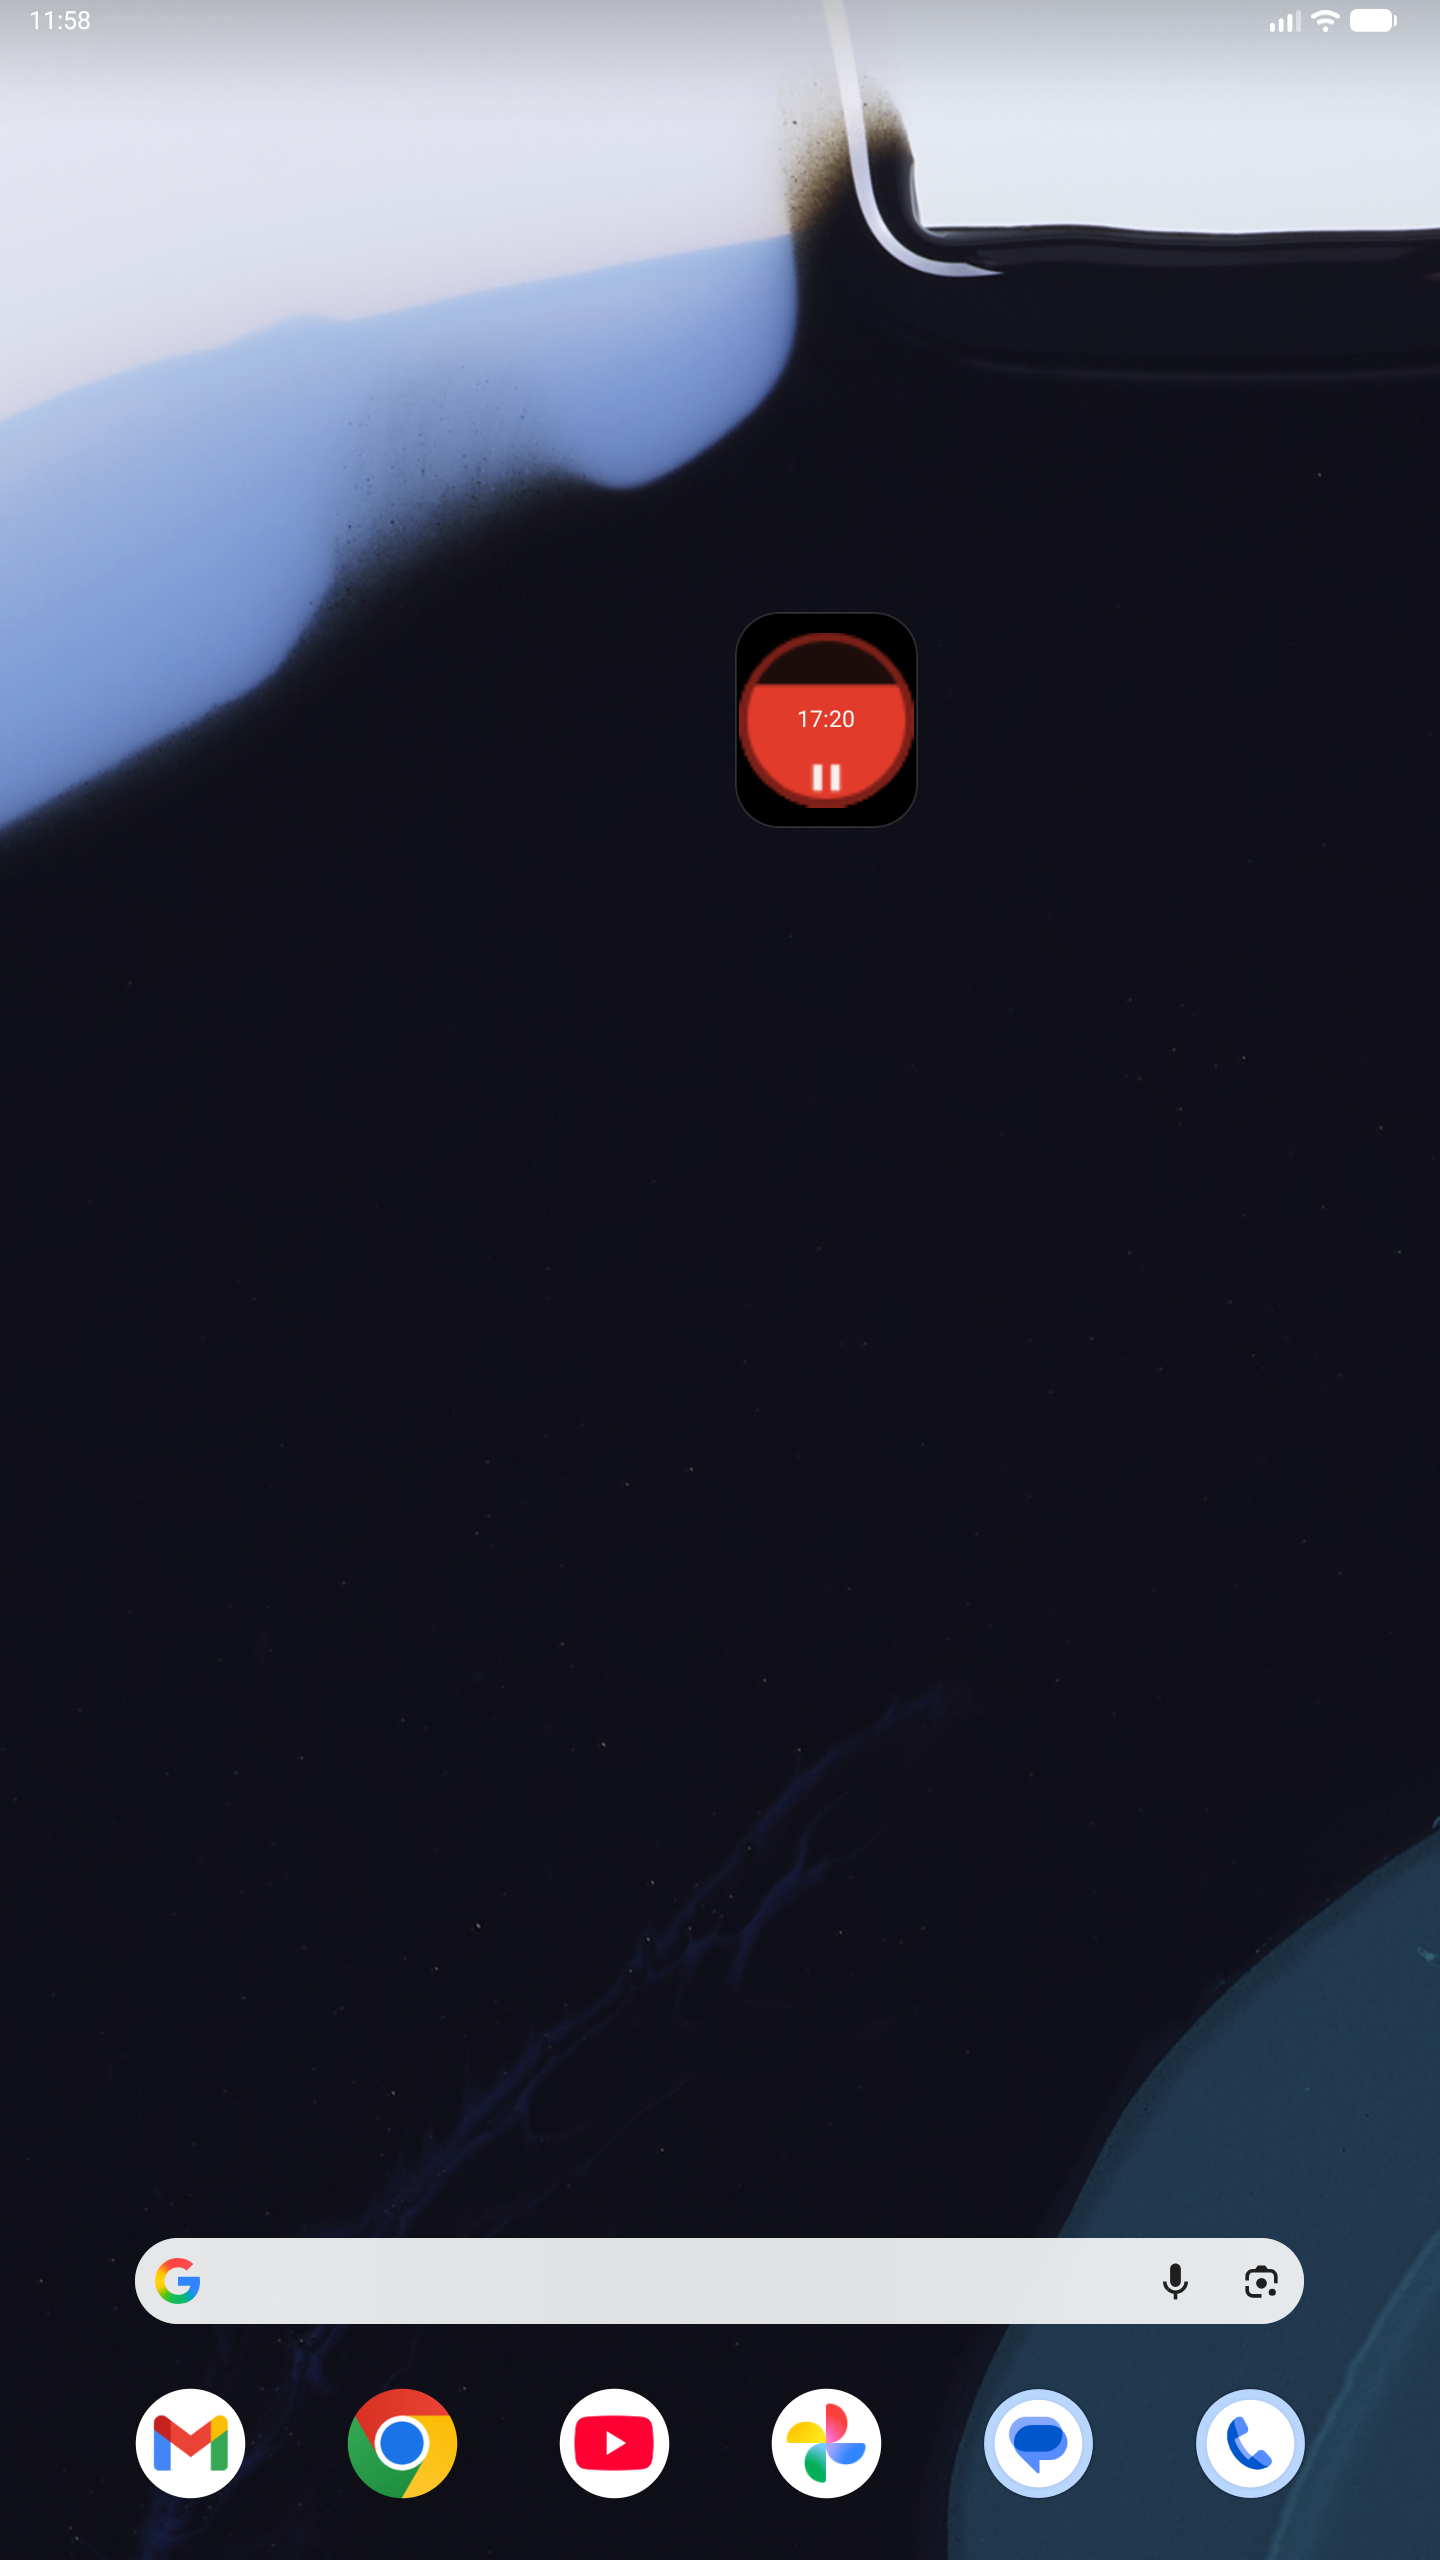
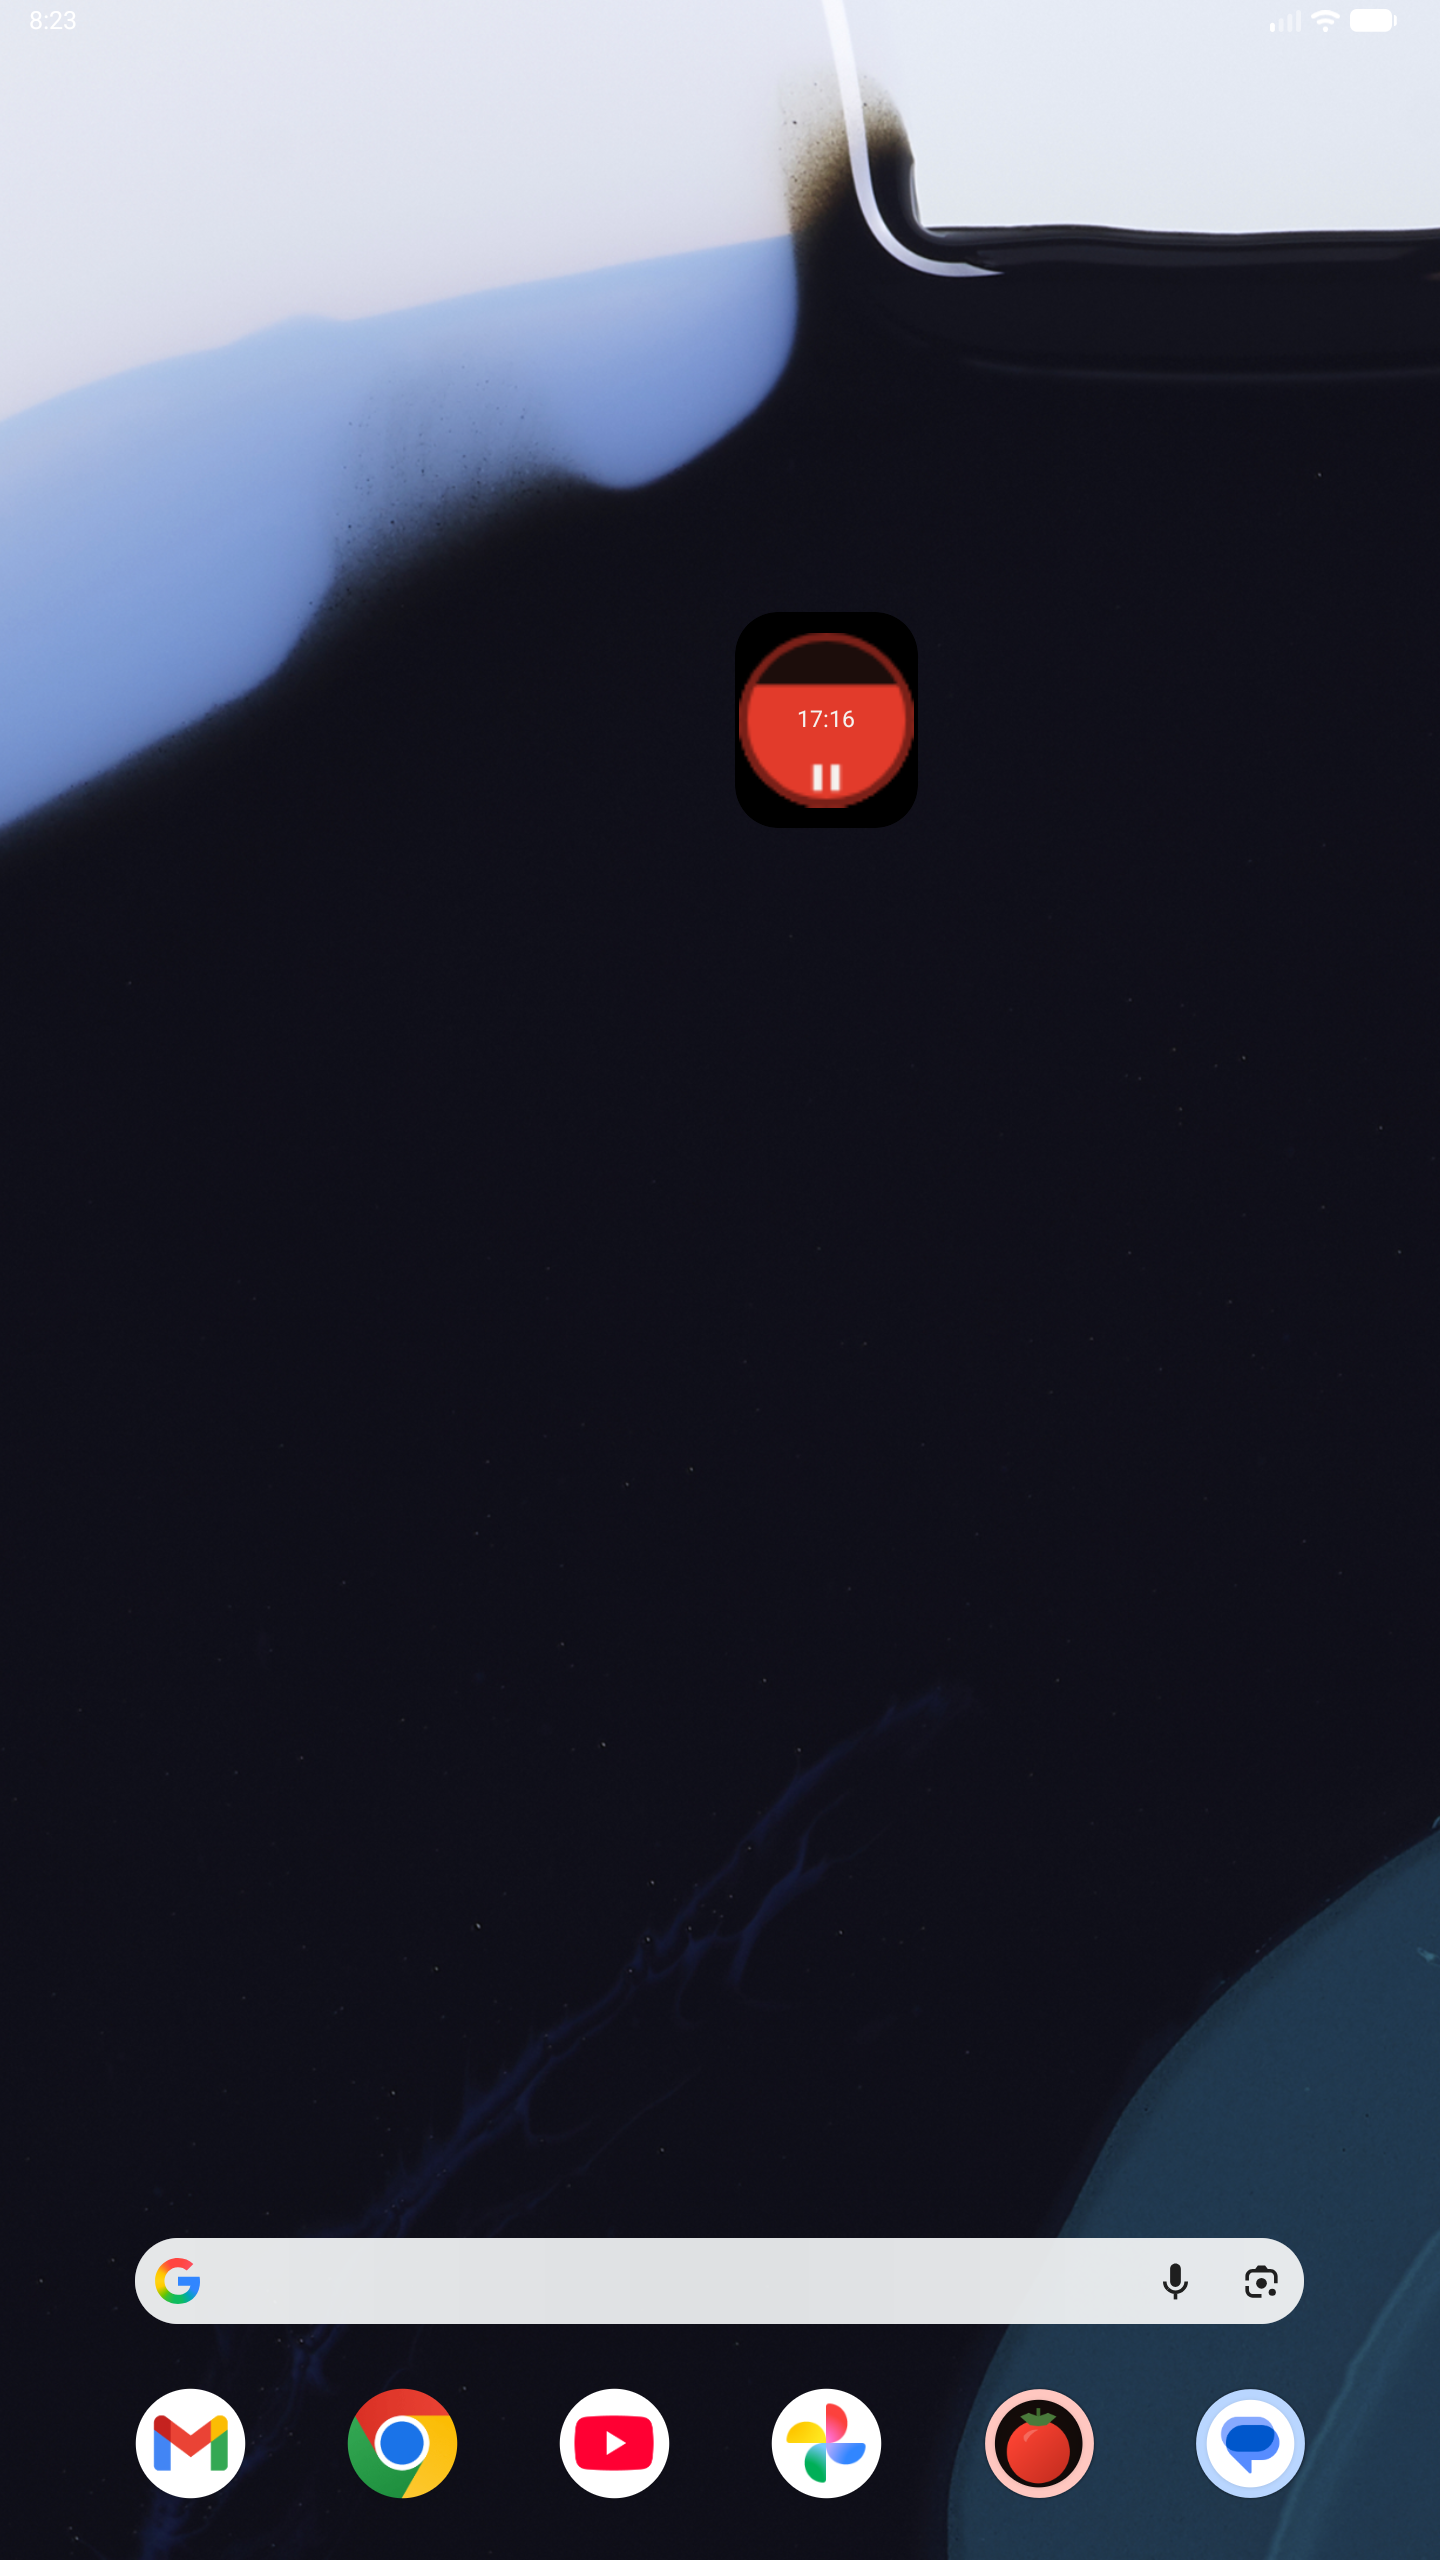
fix(widget): fuera el filete gris del borde de la placa
La placa negra llevaba un trazo de 1 dp en blanco al 14 % (`#24FFFFFF`). Se puso para que la placa no se
perdiera sobre un wallpaper oscuro, pero lo que hacía en el escritorio era rodear el tomate de un contorno
gris que se lee como suciedad, y va contra el «cero tarjetas, cero botones con relleno» del §1 de
CLAUDE.md.

El argumento que lo justificaba no se sostiene: lo que tiene que verse es el tomate, y el tomate está
siempre —es el contenido, no el fondo—. Que la placa se funda con un fondo negro es justo lo que se quiere.
Y sobre un wallpaper claro la placa negra ya se recorta sola, sin ayuda.

Medido cruzando el canto de la placa en la captura del escritorio, de fuera hacia dentro:

    antes   18, 18, 18 →  51, 43, 36  → 0, 0 → 60…
    ahora   18, 18, 18 →   0,  0,  0  → 0, 0 → 60…

Los tres valores del medio eran el filete. La variante transparente no cambia: nunca tuvo trazo.

`WidgetPlateStroke` desaparece de `Color.kt` —ya no lo usaba nadie, y dejarlo ahí invita a volver a
pintarlo—, y se corrigen las tres menciones del `design-spec`. Regeneradas las seis capturas del widget de
la ficha, que lo llevaban.

De paso, la herramienta de capturas aprende a buscar el widget por las páginas del escritorio: HOME deja la
primera y el widget vive en la segunda, así que recién arrancado el emulador la captura salía del
escritorio vacío.

Changed region(s): [[0.0, 0.0, 1.0, 0.0312], [0.6875, 0.9375, 0.7812, 1.0], [0.8438, 0.9375, 0.9062, 0.9688]]

diff --git a/app/src/main/java/com/jjrapps/aquihaytomate/ui/theme/Color.kt b/app/src/main/java/com/jjrapps/aquihaytomate/ui/theme/Color.kt
@@ -41,7 +41,6 @@ val BorderStrong        = Color(0xFF332D2A)   // inactive toggles and chips
 // ─── Semantic ───────────────────────────────────────────────────────────
 val AlertAmber          = Color(0xFFF2A03D)   // permission and battery warnings
 val SurfaceHighlight    = Color(0x99FFFFFF)   // highlight line on the liquid surface
-val WidgetPlateStroke   = Color(0x24FFFFFF)   // widget edge over light wallpapers
 
 /**
  * The four shades of the current phase, resolved once and passed down, rather than each component

diff --git a/docs/store-assets/generar-capturas/capturar.py b/docs/store-assets/generar-capturas/capturar.py
@@ -162,6 +162,20 @@ def capturar_widget(destino):
     tanda.esperar("PAUSAR") if ui.buscar("PAUSAR") else tanda.esperar("PAUSE")
     adb("shell", "input", "keyevent", "KEYCODE_HOME")
     time.sleep(3)
+
+    # HOME deja la primera página, y el widget vive en la segunda. Recién arrancado el emulador esto no se
+    # puede dar por supuesto: sin ir a buscarlo, la captura sale del escritorio vacío.
+    ancho = ancho_pantalla()
+    alto = int(adb("shell", "wm", "size").strip().split(":")[-1].split("x")[1])
+    for _ in range(3):
+        if ui.buscar("Pomodoro"):
+            break
+        adb("shell", "input", "swipe", str(int(ancho * 0.8)), str(alto // 2),
+            str(int(ancho * 0.2)), str(alto // 2), "300")
+        time.sleep(1.5)
+    else:
+        raise SystemExit("el widget no está en ninguna página del escritorio")
+
     ui.captura(os.path.join(destino, "06-widget-en-el-escritorio.png"))
     print("  06-widget-en-el-escritorio.png")
 

diff --git a/docs/design-spec.md b/docs/design-spec.md
@@ -70,7 +70,6 @@ val BorderStrong        = Color(0xFF332D2A)   // borde de toggles y chips inacti
 // ─── Semantic ───────────────────────────────────────────────────────────
 val AlertAmber          = Color(0xFFF2A03D)   // avisos de permisos y batería
 val SurfaceHighlight    = Color(0x99FFFFFF)   // línea de brillo de la superficie
-val WidgetPlateStroke   = Color(0x24FFFFFF)   // borde del widget sobre wallpaper
 ```
 
 ### 2.2 Colores por fase
@@ -531,7 +530,7 @@ Con `reduced = true`:
 
 ### 7.1 Placa
 
-Fondo con `@android:dimen/system_app_widget_background_radius` (el sistema decide el radio, así encaja con el resto del escritorio), relleno negro opaco y trazo de 1 dp en `WidgetPlateStroke` (`#24FFFFFF`) para que se recorte sobre wallpapers claros. Variante transparente disponible en Ajustes.
+Fondo con `@android:dimen/system_app_widget_background_radius` (el sistema decide el radio, así encaja con el resto del escritorio) y relleno negro opaco, **sin trazo**. Hubo un filete de 1 dp al 14 % de blanco para que la placa negra no se perdiera sobre un wallpaper oscuro; lo que hacía en realidad era rodear el widget de un contorno gris que se lee como suciedad en el escritorio y contradice el «cero tarjetas» del §1 de `CLAUDE.md`. Que la placa se funda con un fondo negro es lo deseable: lo que tiene que verse es el tomate, y el tomate está siempre. Variante transparente disponible en Ajustes.
 
 ### 7.2 Contenido a 40 × 40 dp
 
@@ -673,7 +672,7 @@ El copy se escribe **para una pantalla de reloj**, que muestra título y cuerpo 
 | `mipmap-anydpi/ic_launcher.xml` | | `<adaptive-icon>` con `<background>`, `<foreground>` y **`<monochrome>`** |
 | Icono de notificación | `drawable/ic_notif_tomate.xml` | 24 × 24 dp, **máscara alfa pura** (el sistema lo tiñe de blanco). Silueta simplificada, sin agujeros finos |
 | Splash | `drawable/ic_splash_tomate.xml` | Lienzo 288 × 288 dp con el arte en 192 × 192 dp centrado |
-| Placa del widget | `drawable/widget_plate.xml` | Shape con `system_app_widget_background_radius`, relleno negro, trazo `WidgetPlateStroke` |
+| Placa del widget | `drawable/widget_plate.xml` | Shape con `system_app_widget_background_radius` y relleno negro, **sin trazo** |
 | Placa transparente | `drawable/widget_plate_transparent.xml` | Igual, sin relleno |
 | Preview del widget | `layout/widget_tomate_preview.xml` + `drawable/widget_preview_tomate.xml` | Copia del layout con cifra fija `25`, y vector de respaldo |
 | Fuentes | `font/inter_*.ttf`, `font/space_grotesk_*.ttf` | ~230 KB tras subsetting. SIL OFL 1.1 |

diff --git a/CHANGELOG.md b/CHANGELOG.md
@@ -15,6 +15,15 @@ reutilizar ni bajando la versión.
 El formato sigue [Keep a Changelog](https://keepachangelog.com/es-ES/1.1.0/) y las versiones
 [Semantic Versioning](https://semver.org/lang/es/).
 
+## [Sin publicar]
+
+### Corregido
+
+- **El widget ya no lleva un contorno gris.** La placa negra tenía un filete de 1 dp al 14 % de blanco,
+  puesto para que no se perdiera sobre un wallpaper oscuro. En el escritorio se leía como un borde sucio
+  alrededor del tomate, y no hacía falta: lo que tiene que verse es el tomate, que está siempre. Sobre un
+  wallpaper claro la placa negra ya se recorta sola.
+
 ## [1.0.1] — 2026-07-29 (versionCode 3)
 
 Dos fallos visuales que salieron al preparar las capturas para la ficha de Play, ninguno de ellos en el
